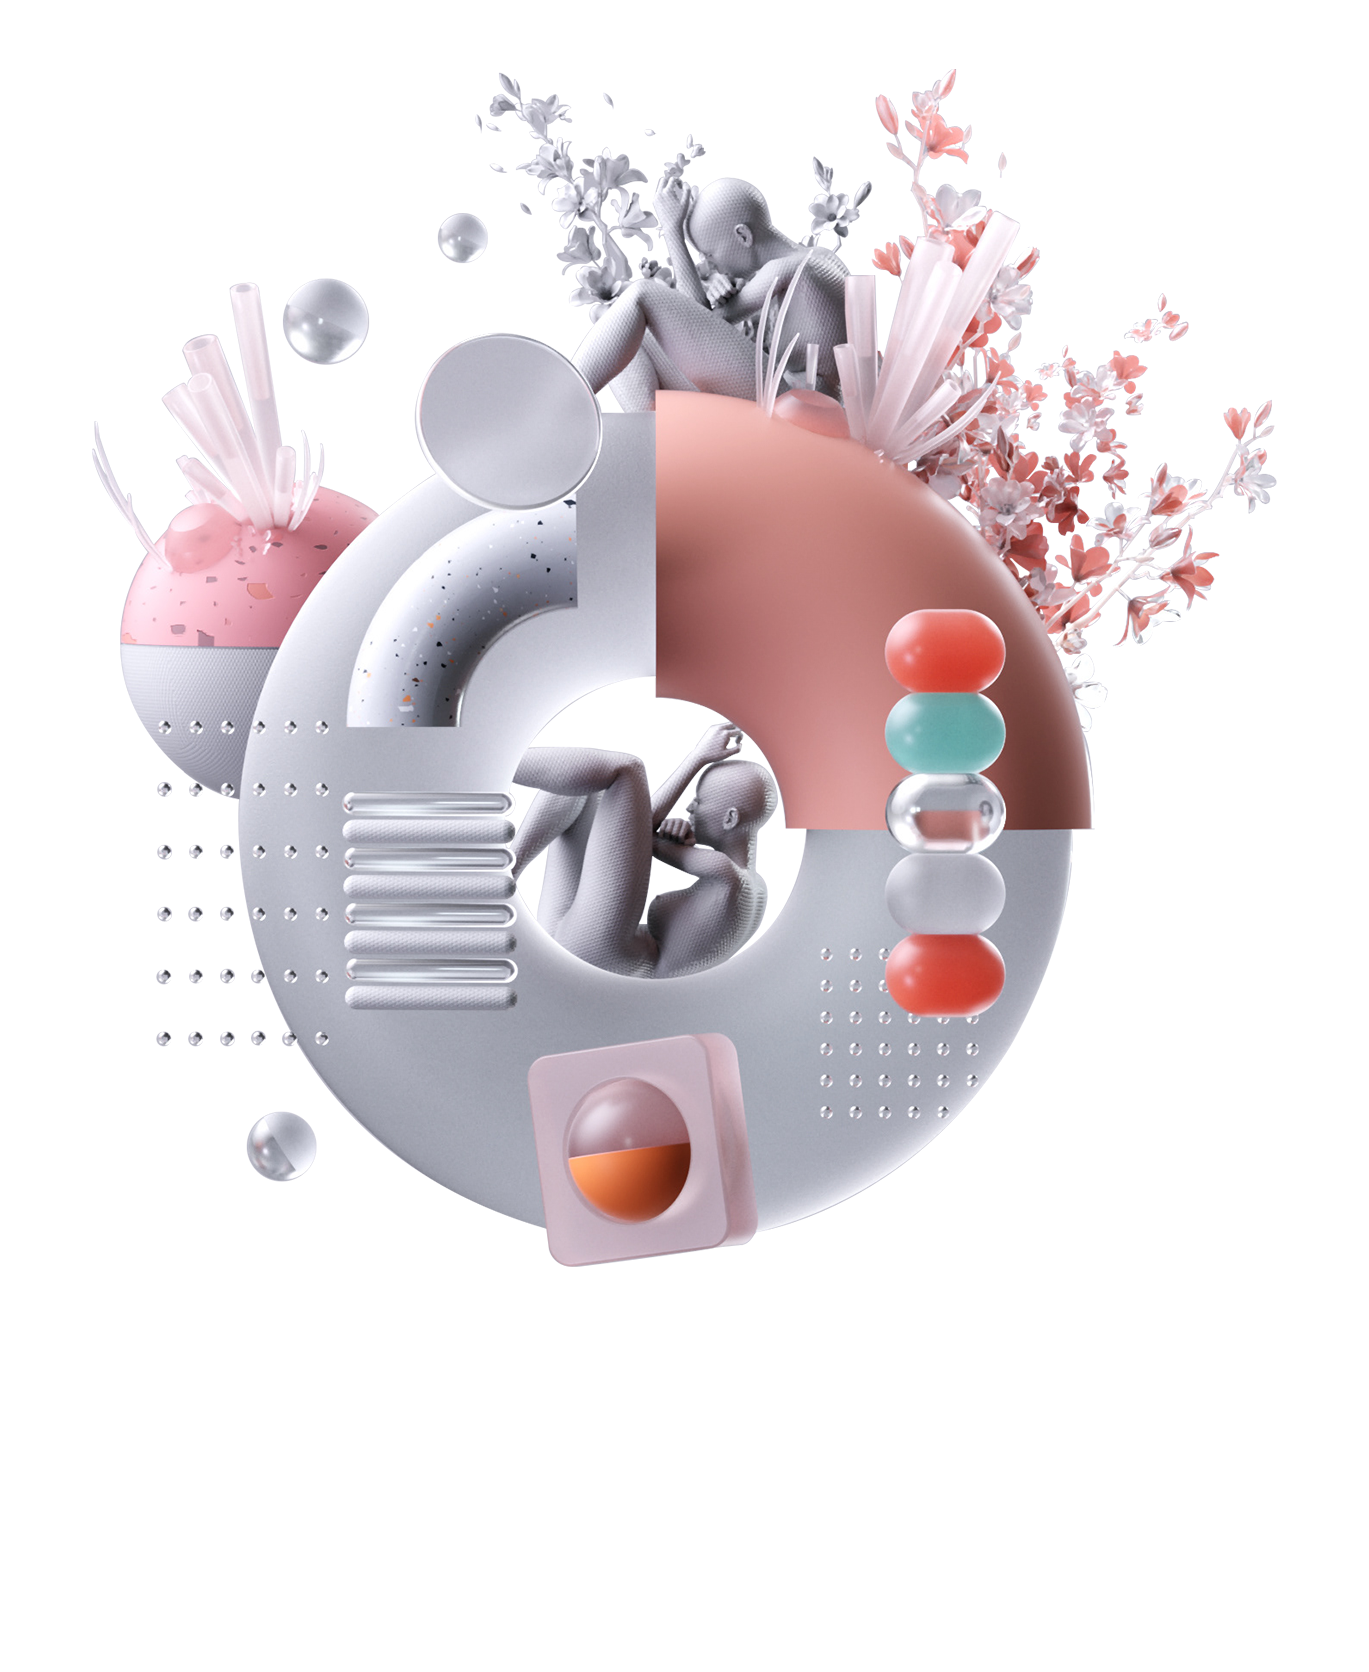
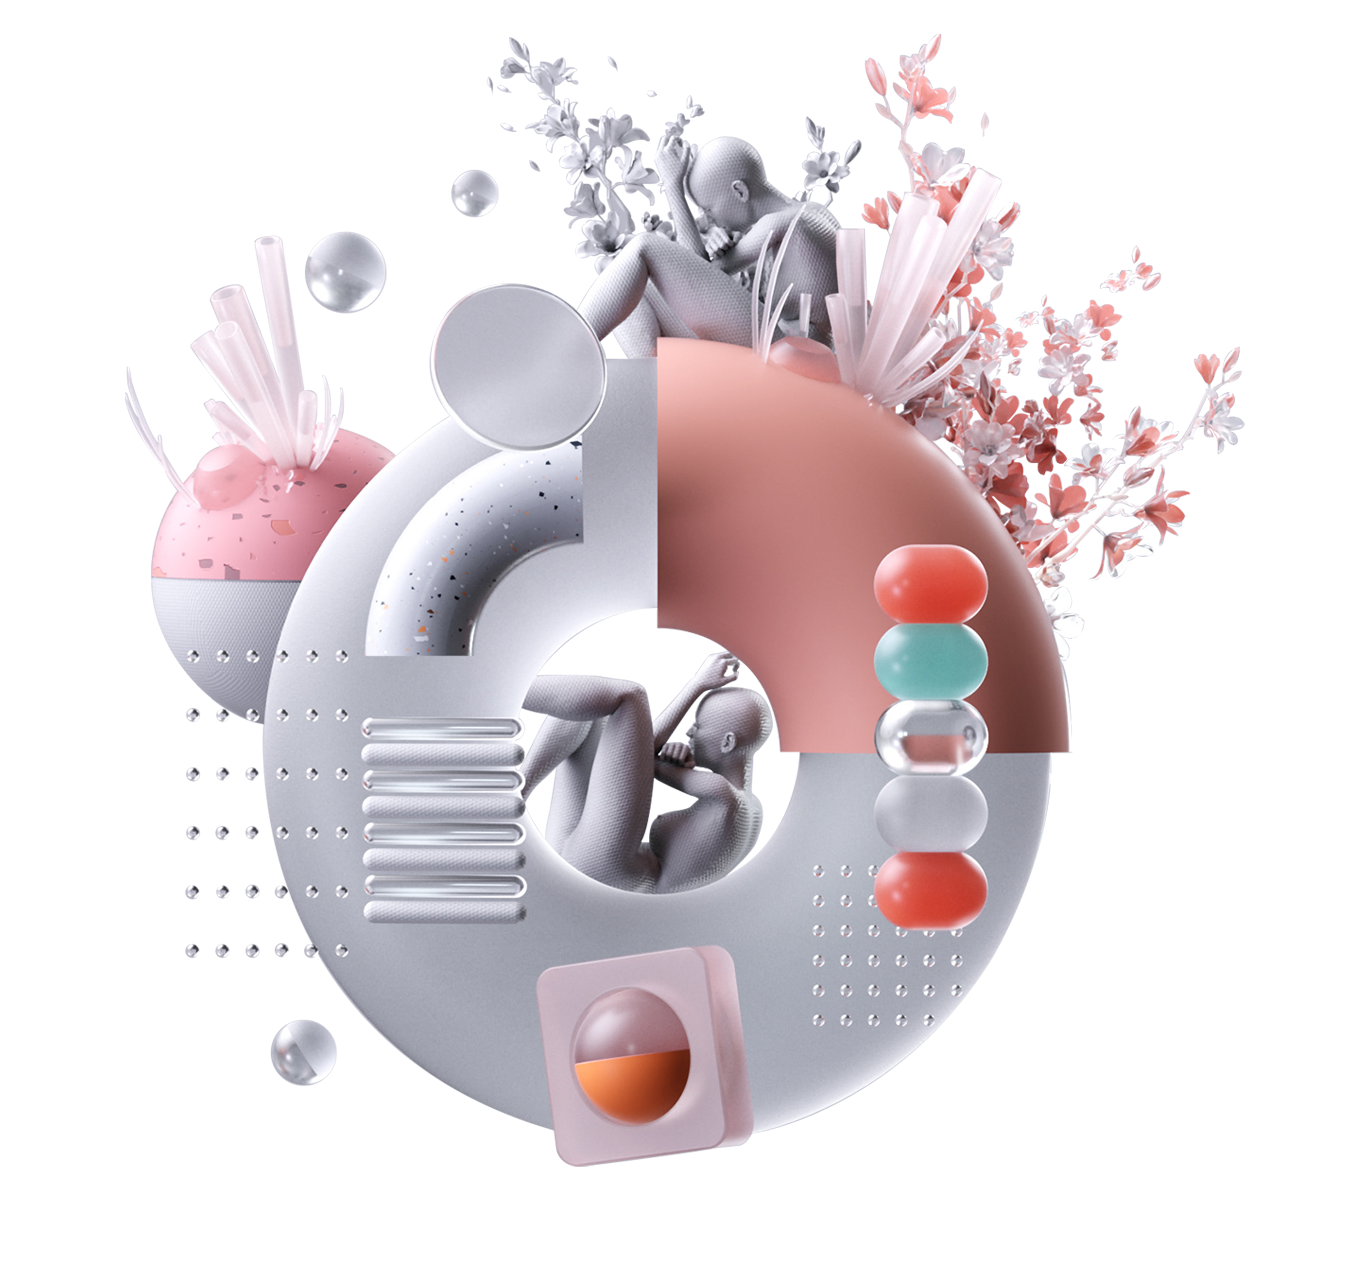
update

diff --git a/technology-development.html b/technology-development.html
@@ -292,9 +292,9 @@ applications." />
                                 </div>
                             </div>
                         </div>
-                        <div class="image-div" data-scroll="" data-scroll-speed="5">
+                        <div class="image-div tech" data-scroll="" data-scroll-speed="5">
                             <figure>
-                                <img src="/assets/resources/img/Service-elements/technology.png" alt="image" />
+                                <img  src="/assets/resources/img/Service-elements/technology.png" alt="image" />
                             </figure>
                         </div>
 

diff --git a/assets/resources/styles/css/page.css b/assets/resources/styles/css/page.css
@@ -10957,6 +10957,9 @@ section.horizontal .animation-wrap.to-left {
   .image-div {
     margin-top: -40%;
   }
+  .tech {
+    margin-top: -50%;
+  }
 }
 @media screen and (max-width: 1680px) {
   .services-s .image {

diff --git a/assets/resources/styles/less/modules/_services.less b/assets/resources/styles/less/modules/_services.less
@@ -2226,6 +2226,10 @@ section.horizontal .animation-wrap.to-left {
   }
   .image-div {
     margin-top: -40%;
+    
+}
+.tech{
+  margin-top: -50%;
 }
 }
 @media screen and (max-width: 1680px) {
